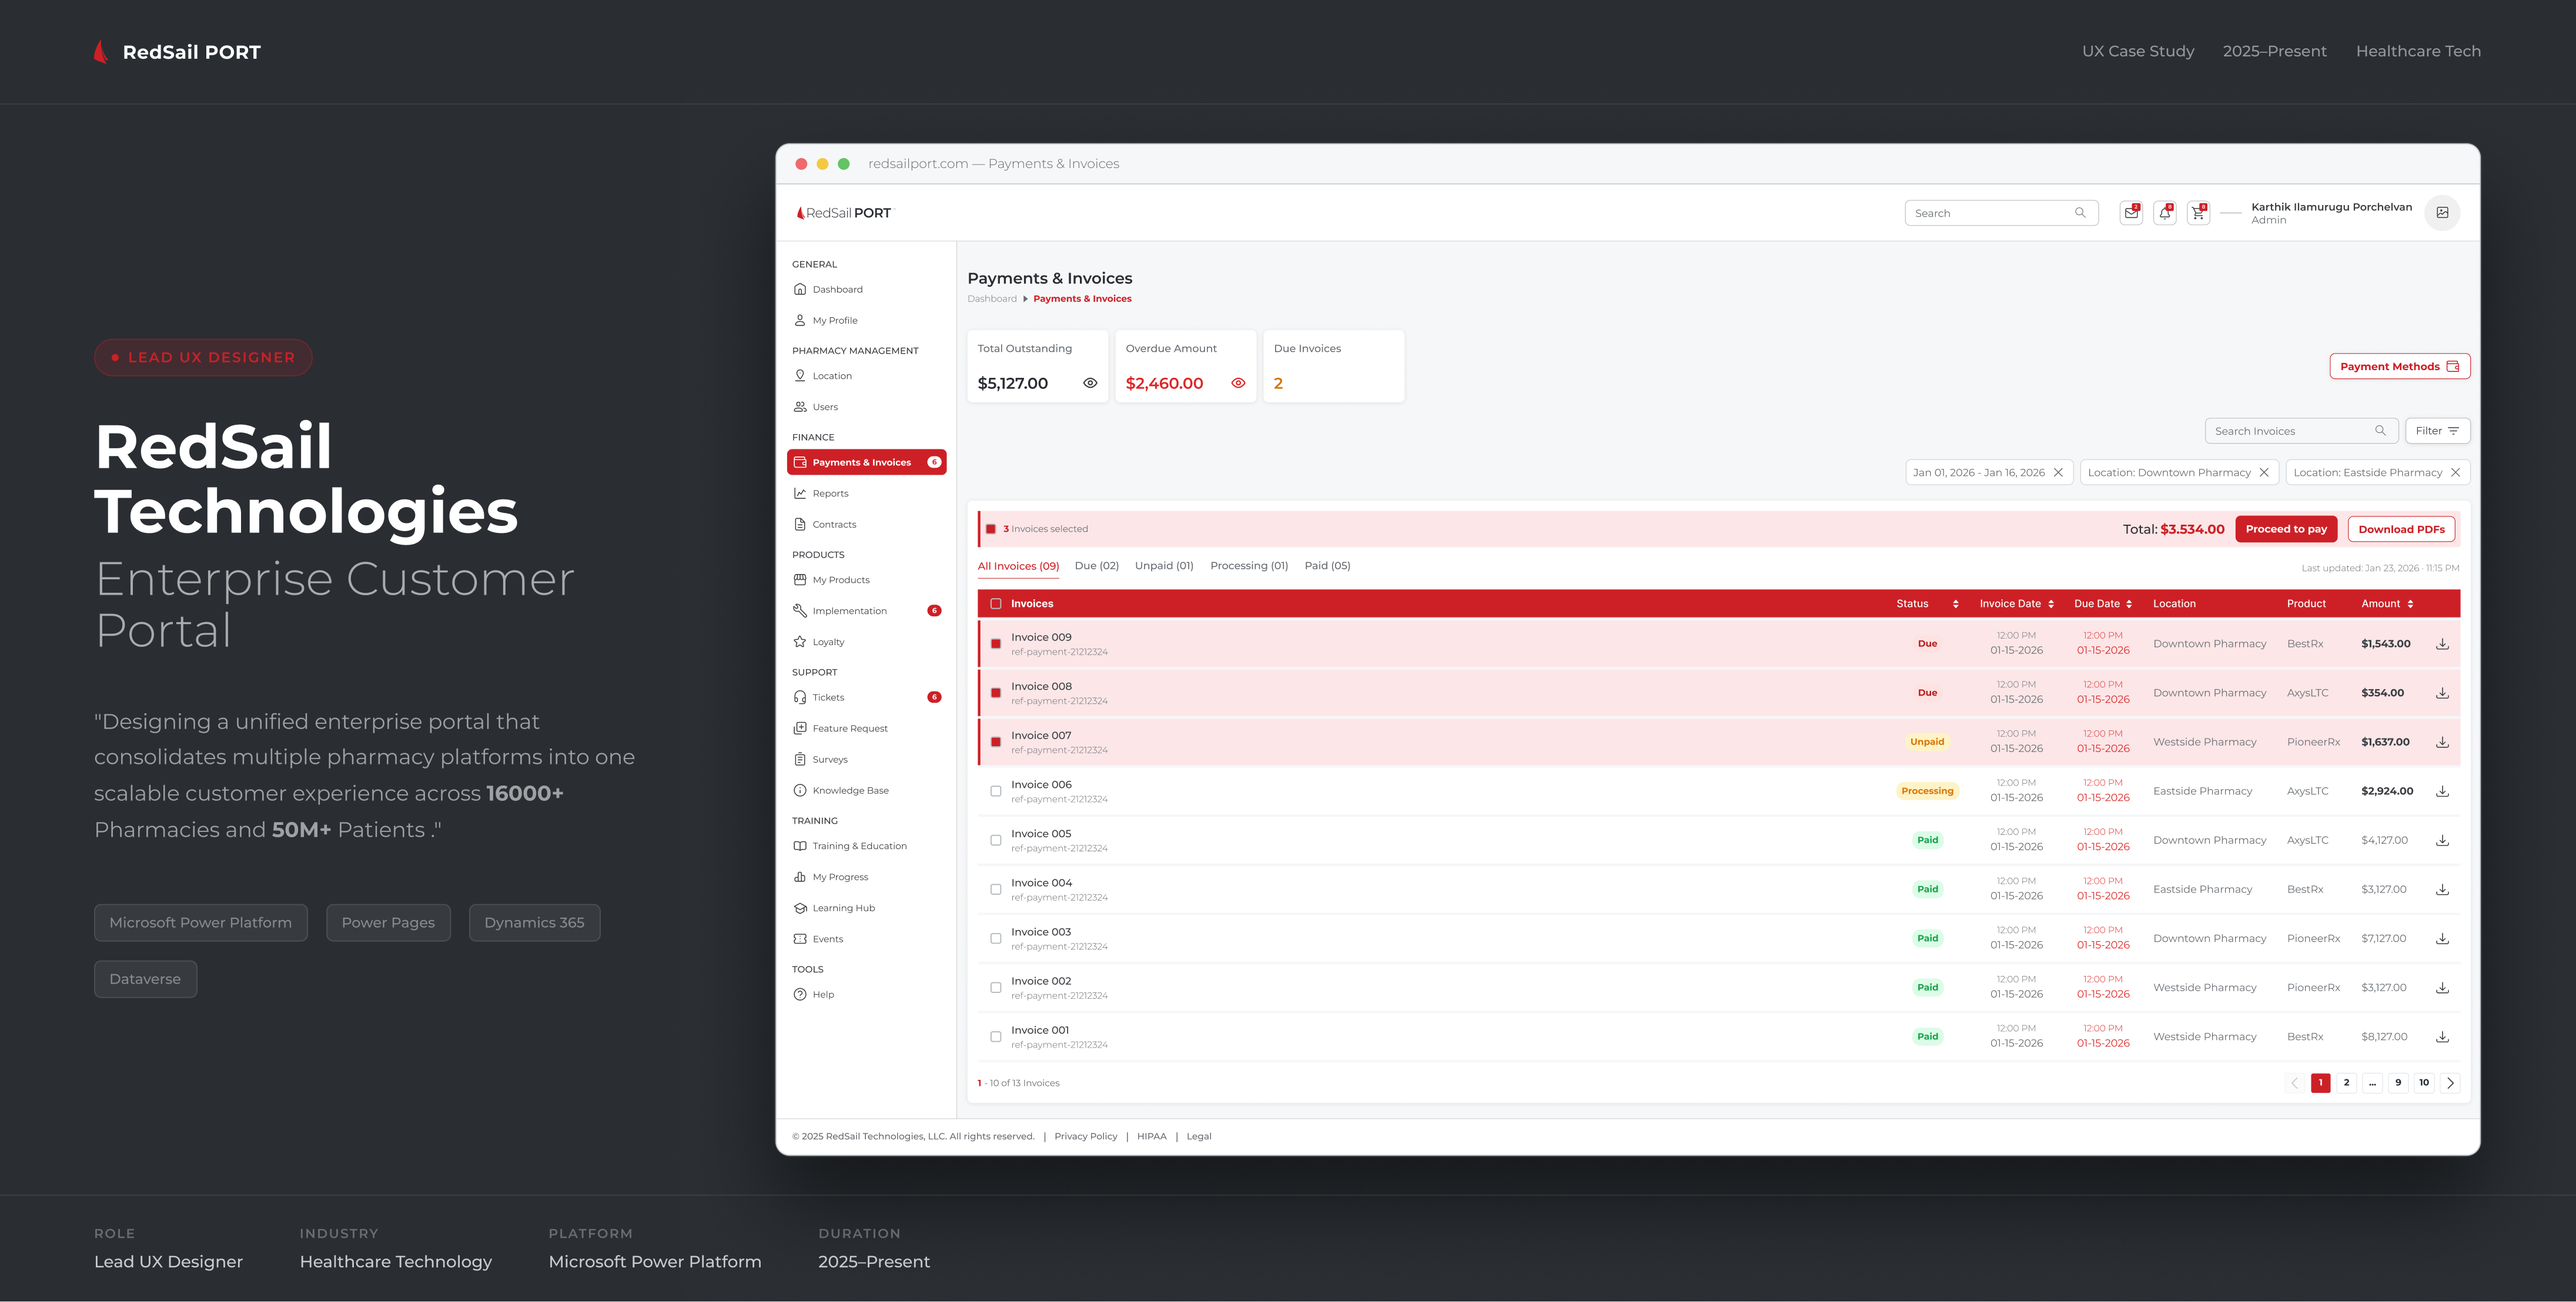
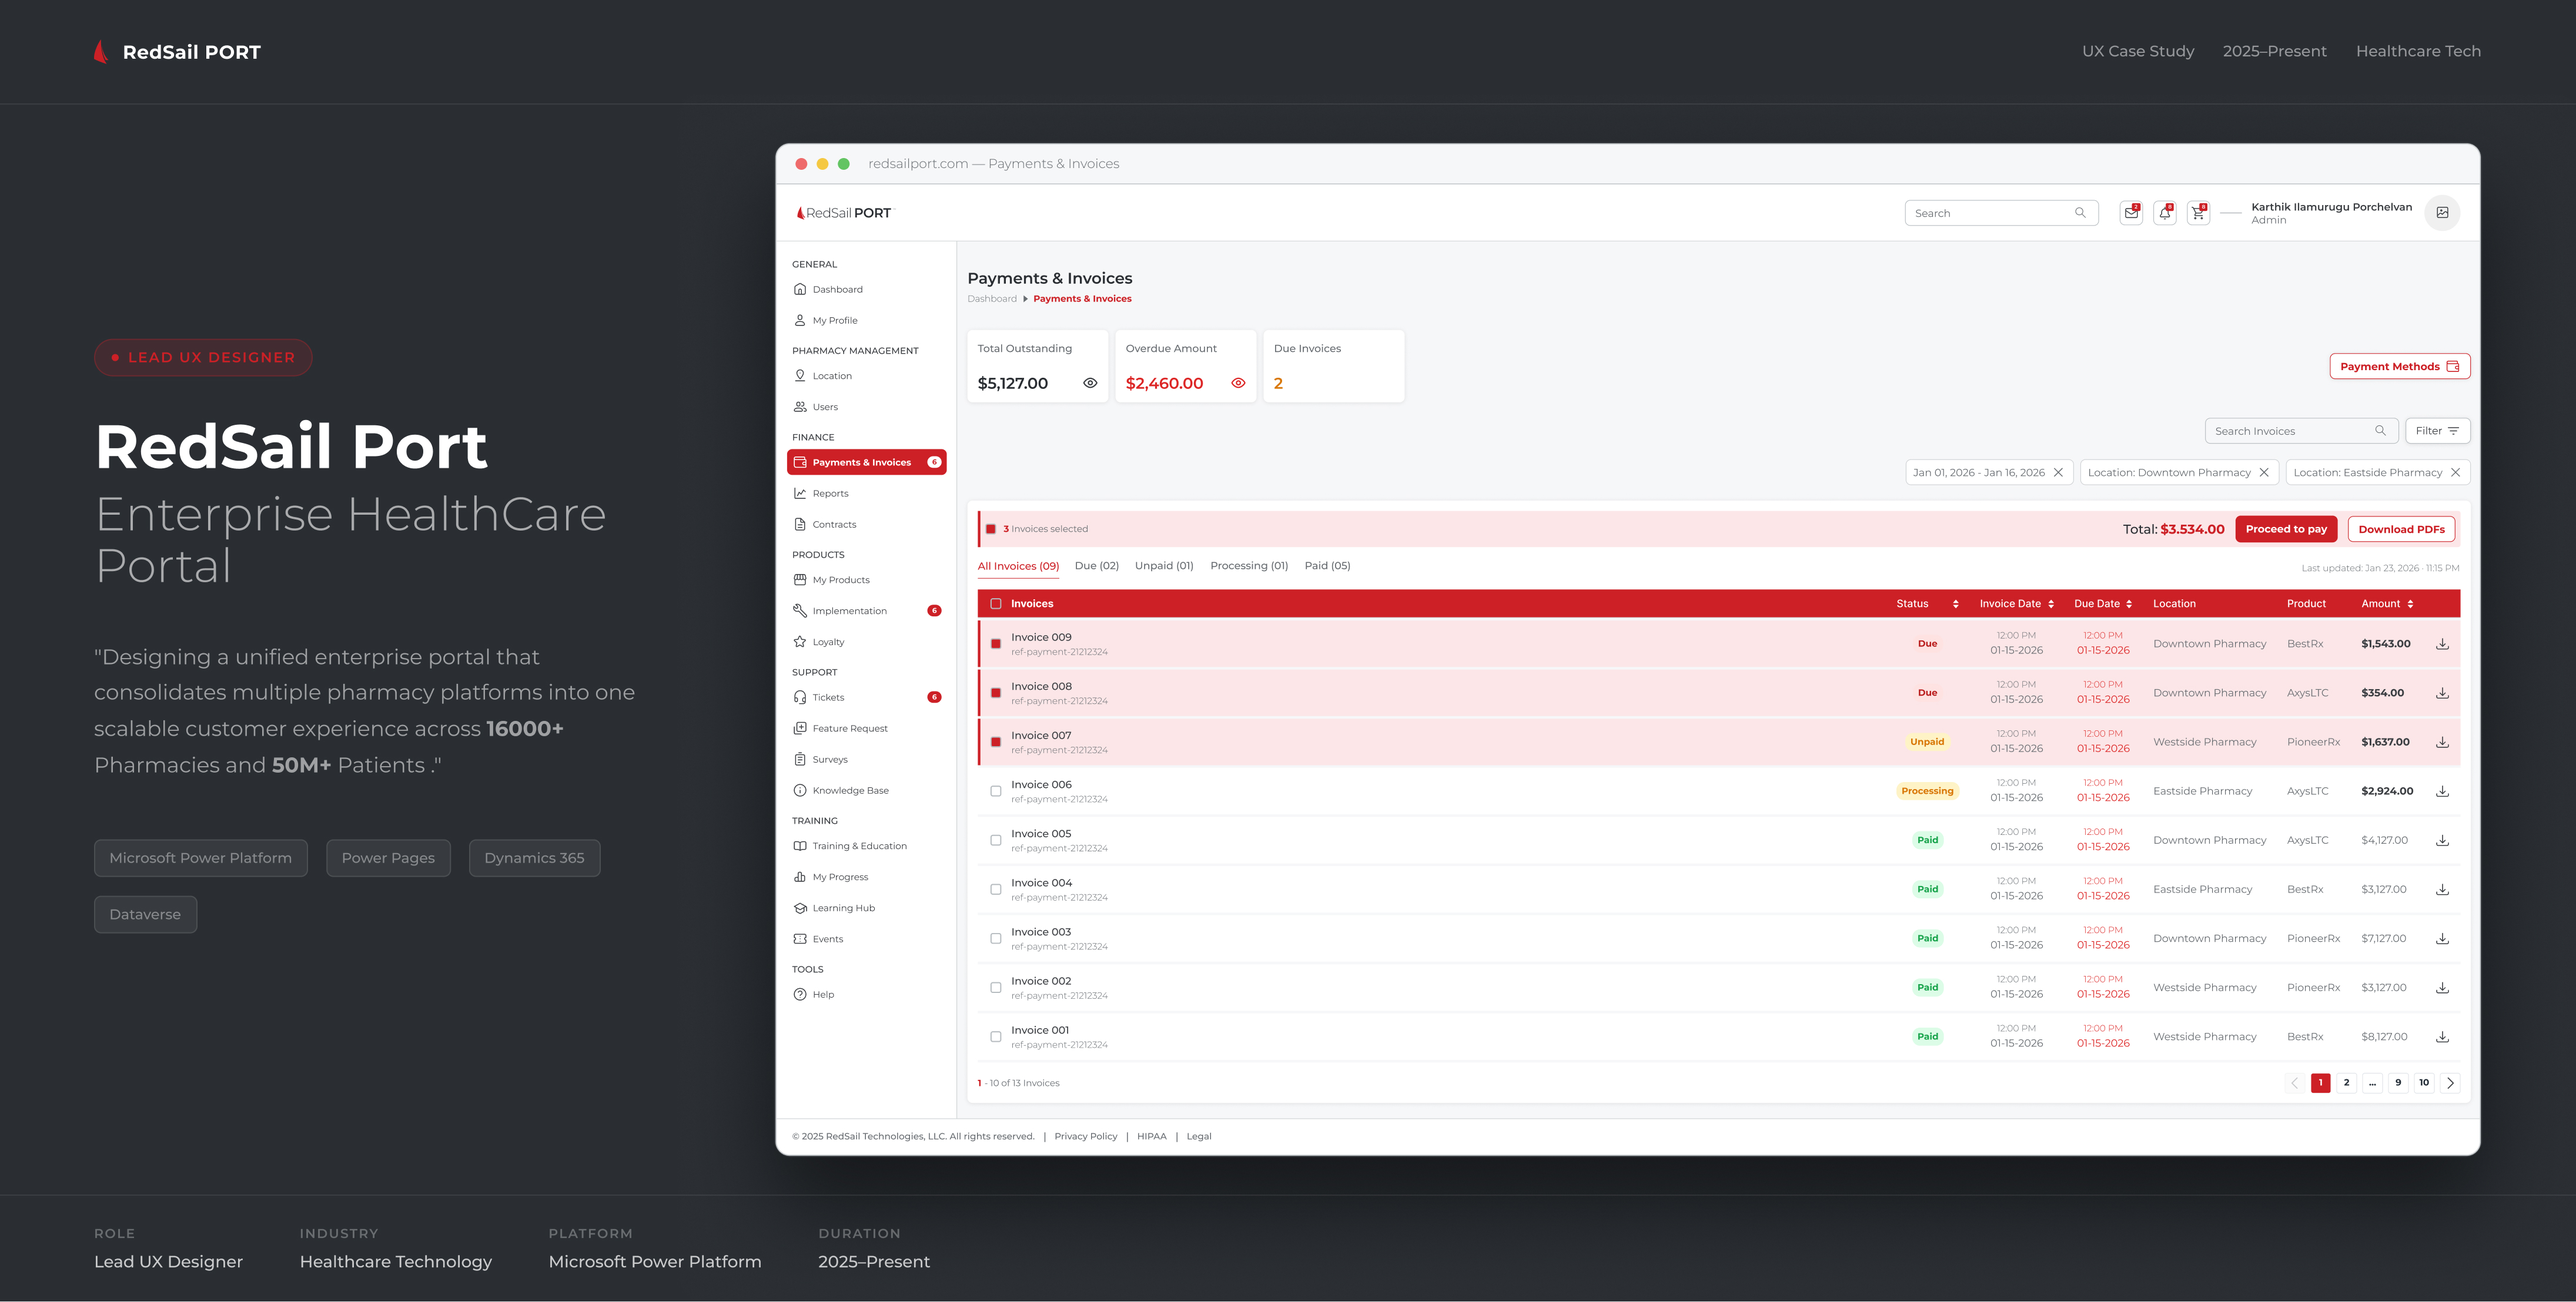
enterprise

Changed region(s): [[0.031, 0.3114, 0.2173, 0.7162], [0.1862, 0.685, 0.2173, 0.7162], [0.1241, 0.685, 0.1552, 0.7162]]

diff --git a/src/Projects.jsx b/src/Projects.jsx
@@ -70,7 +70,7 @@ const Projects = () => {
           <div className="border rounded-md w-64 md:w-72 p-4 text-center flex-shrink-0 snap-start transition-transform duration-300 ease-in-out flex justify-center flex-col">
             <img src={Health} alt="" className="h-32 object-fill" />
             <h3 className="my-5 text-base font-semibold">
-              HealthCare Enterprise Portal
+              Enterprise HealthCare Portal Project
             </h3>
 
             <a
